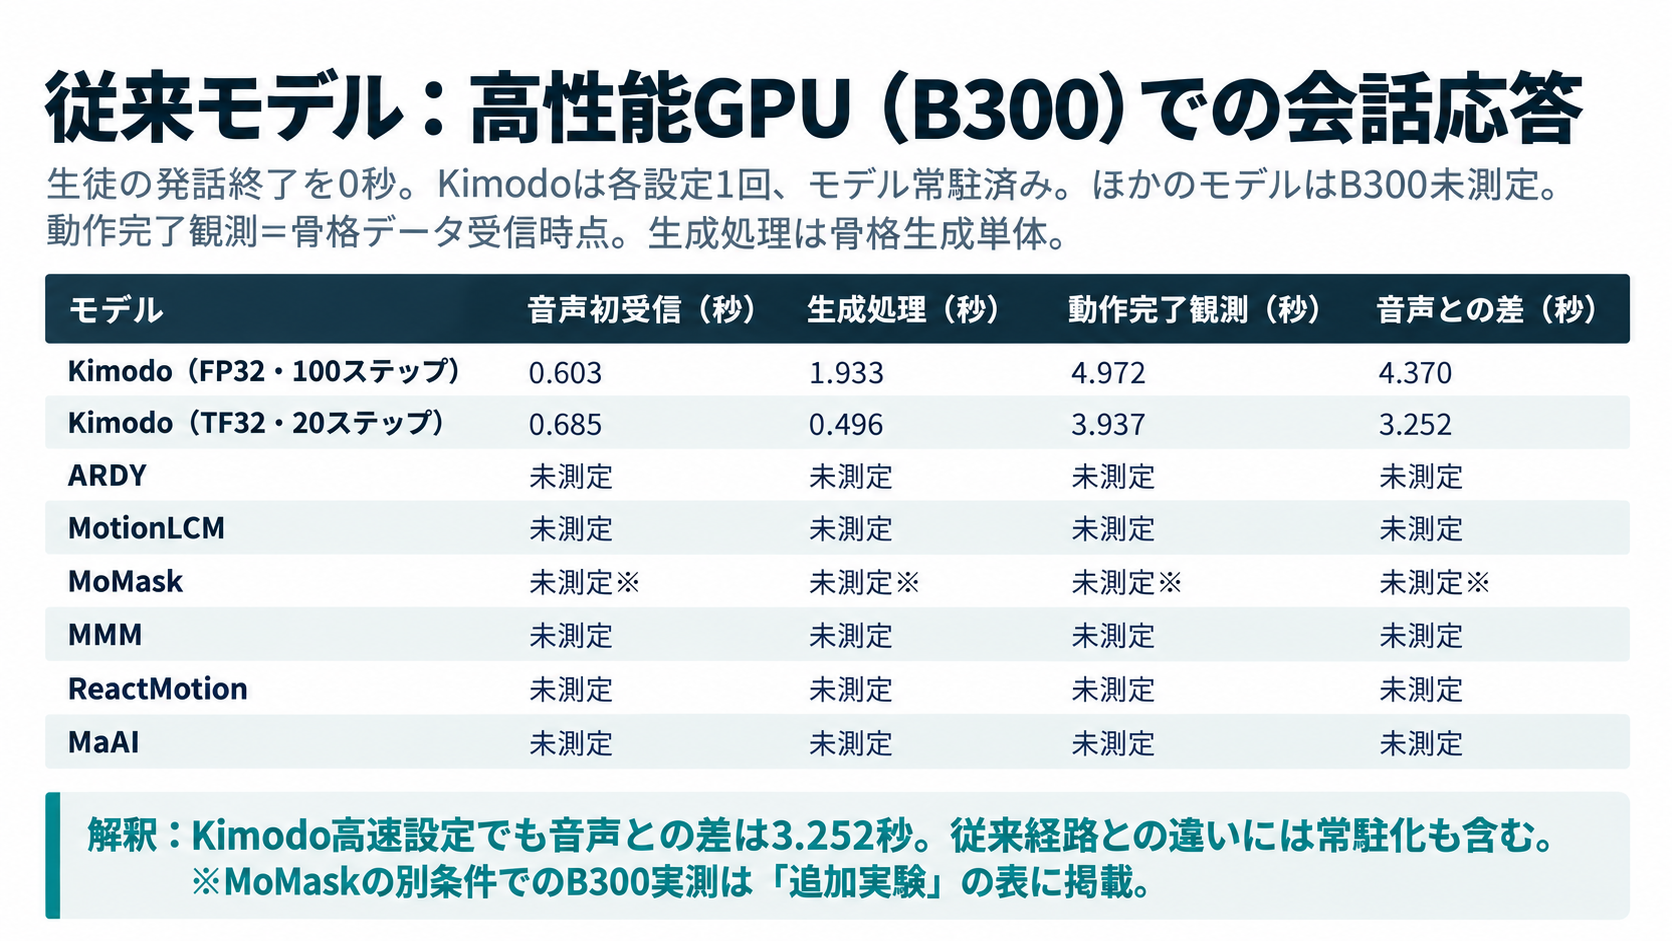
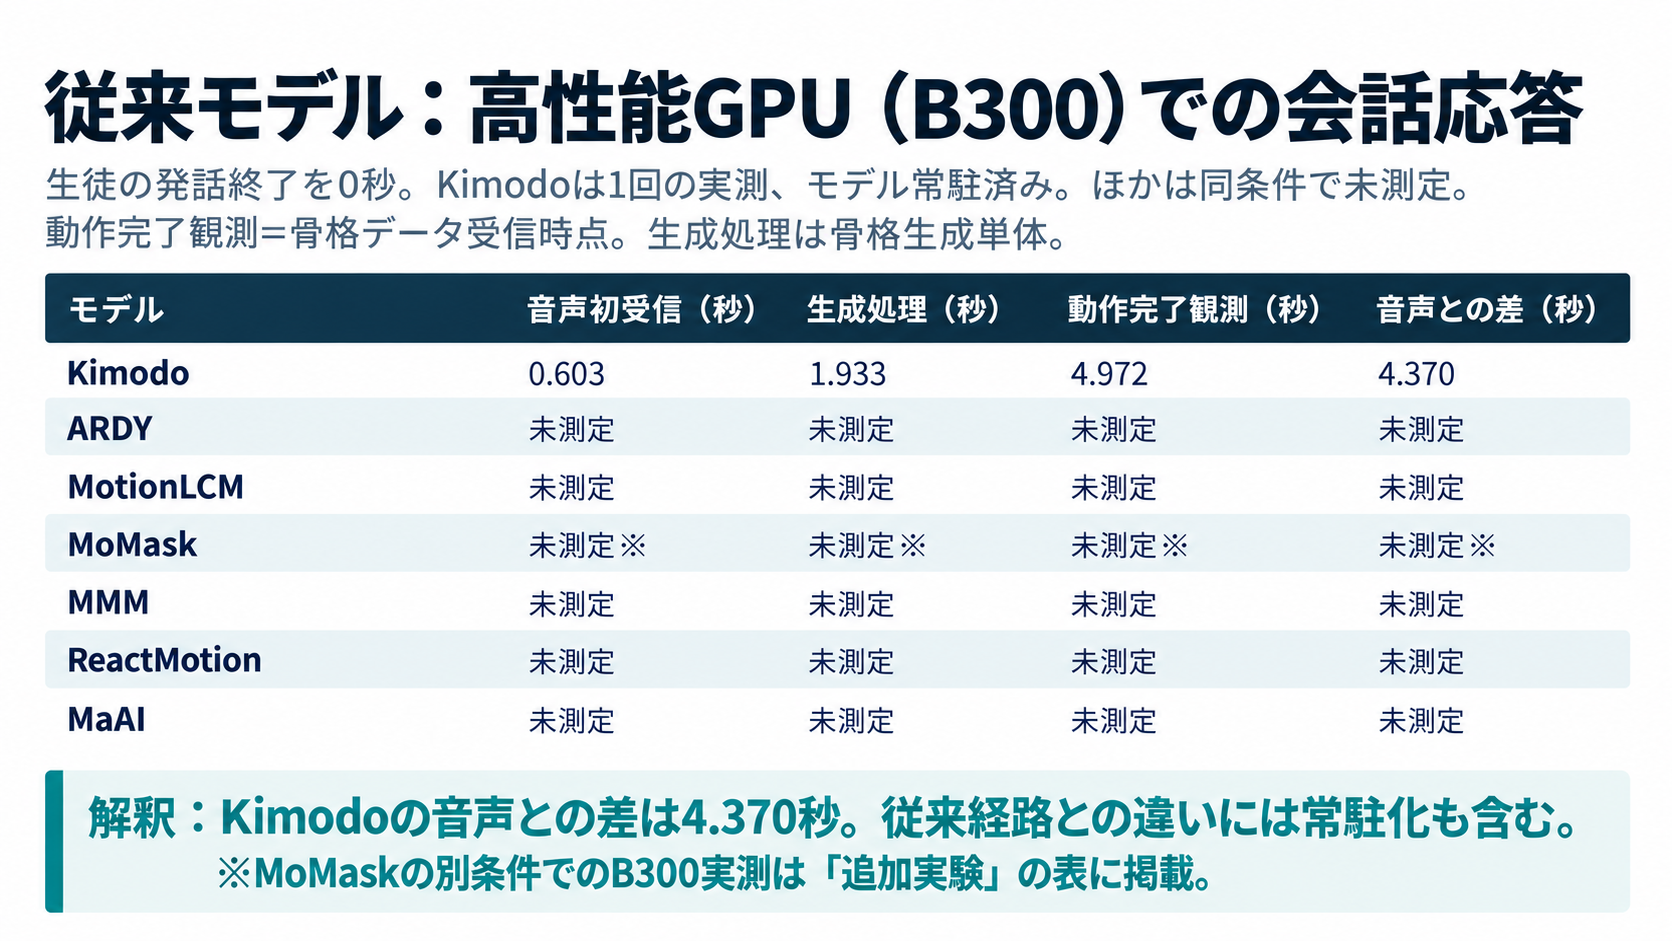
docs: show only Kimodo 100-step result in timing table

diff --git a/reports/timing-tables-20261016/README.md b/reports/timing-tables-20261016/README.md
@@ -16,7 +16,7 @@ RTX 4090、VRAM上限12GB、CPU 8スレッド。研究室RTX 5070実機での測
 
 ## 従来モデル：B300
 
-Kimodoの通常・高速設定の会話実測を掲載。同条件で未測定のモデルは未測定と表示しています。MoMaskの別条件でのB300実測は追加実験の表に掲載しています。
+Kimodoは100ステップの会話実測だけを掲載し、表のモデル名は「Kimodo」としています。同条件で未測定のモデルは未測定と表示しています。MoMaskの別条件でのB300実測は追加実験の表に掲載しています。
 
 ![従来モデル：B300](original-models-b300.png)
 
